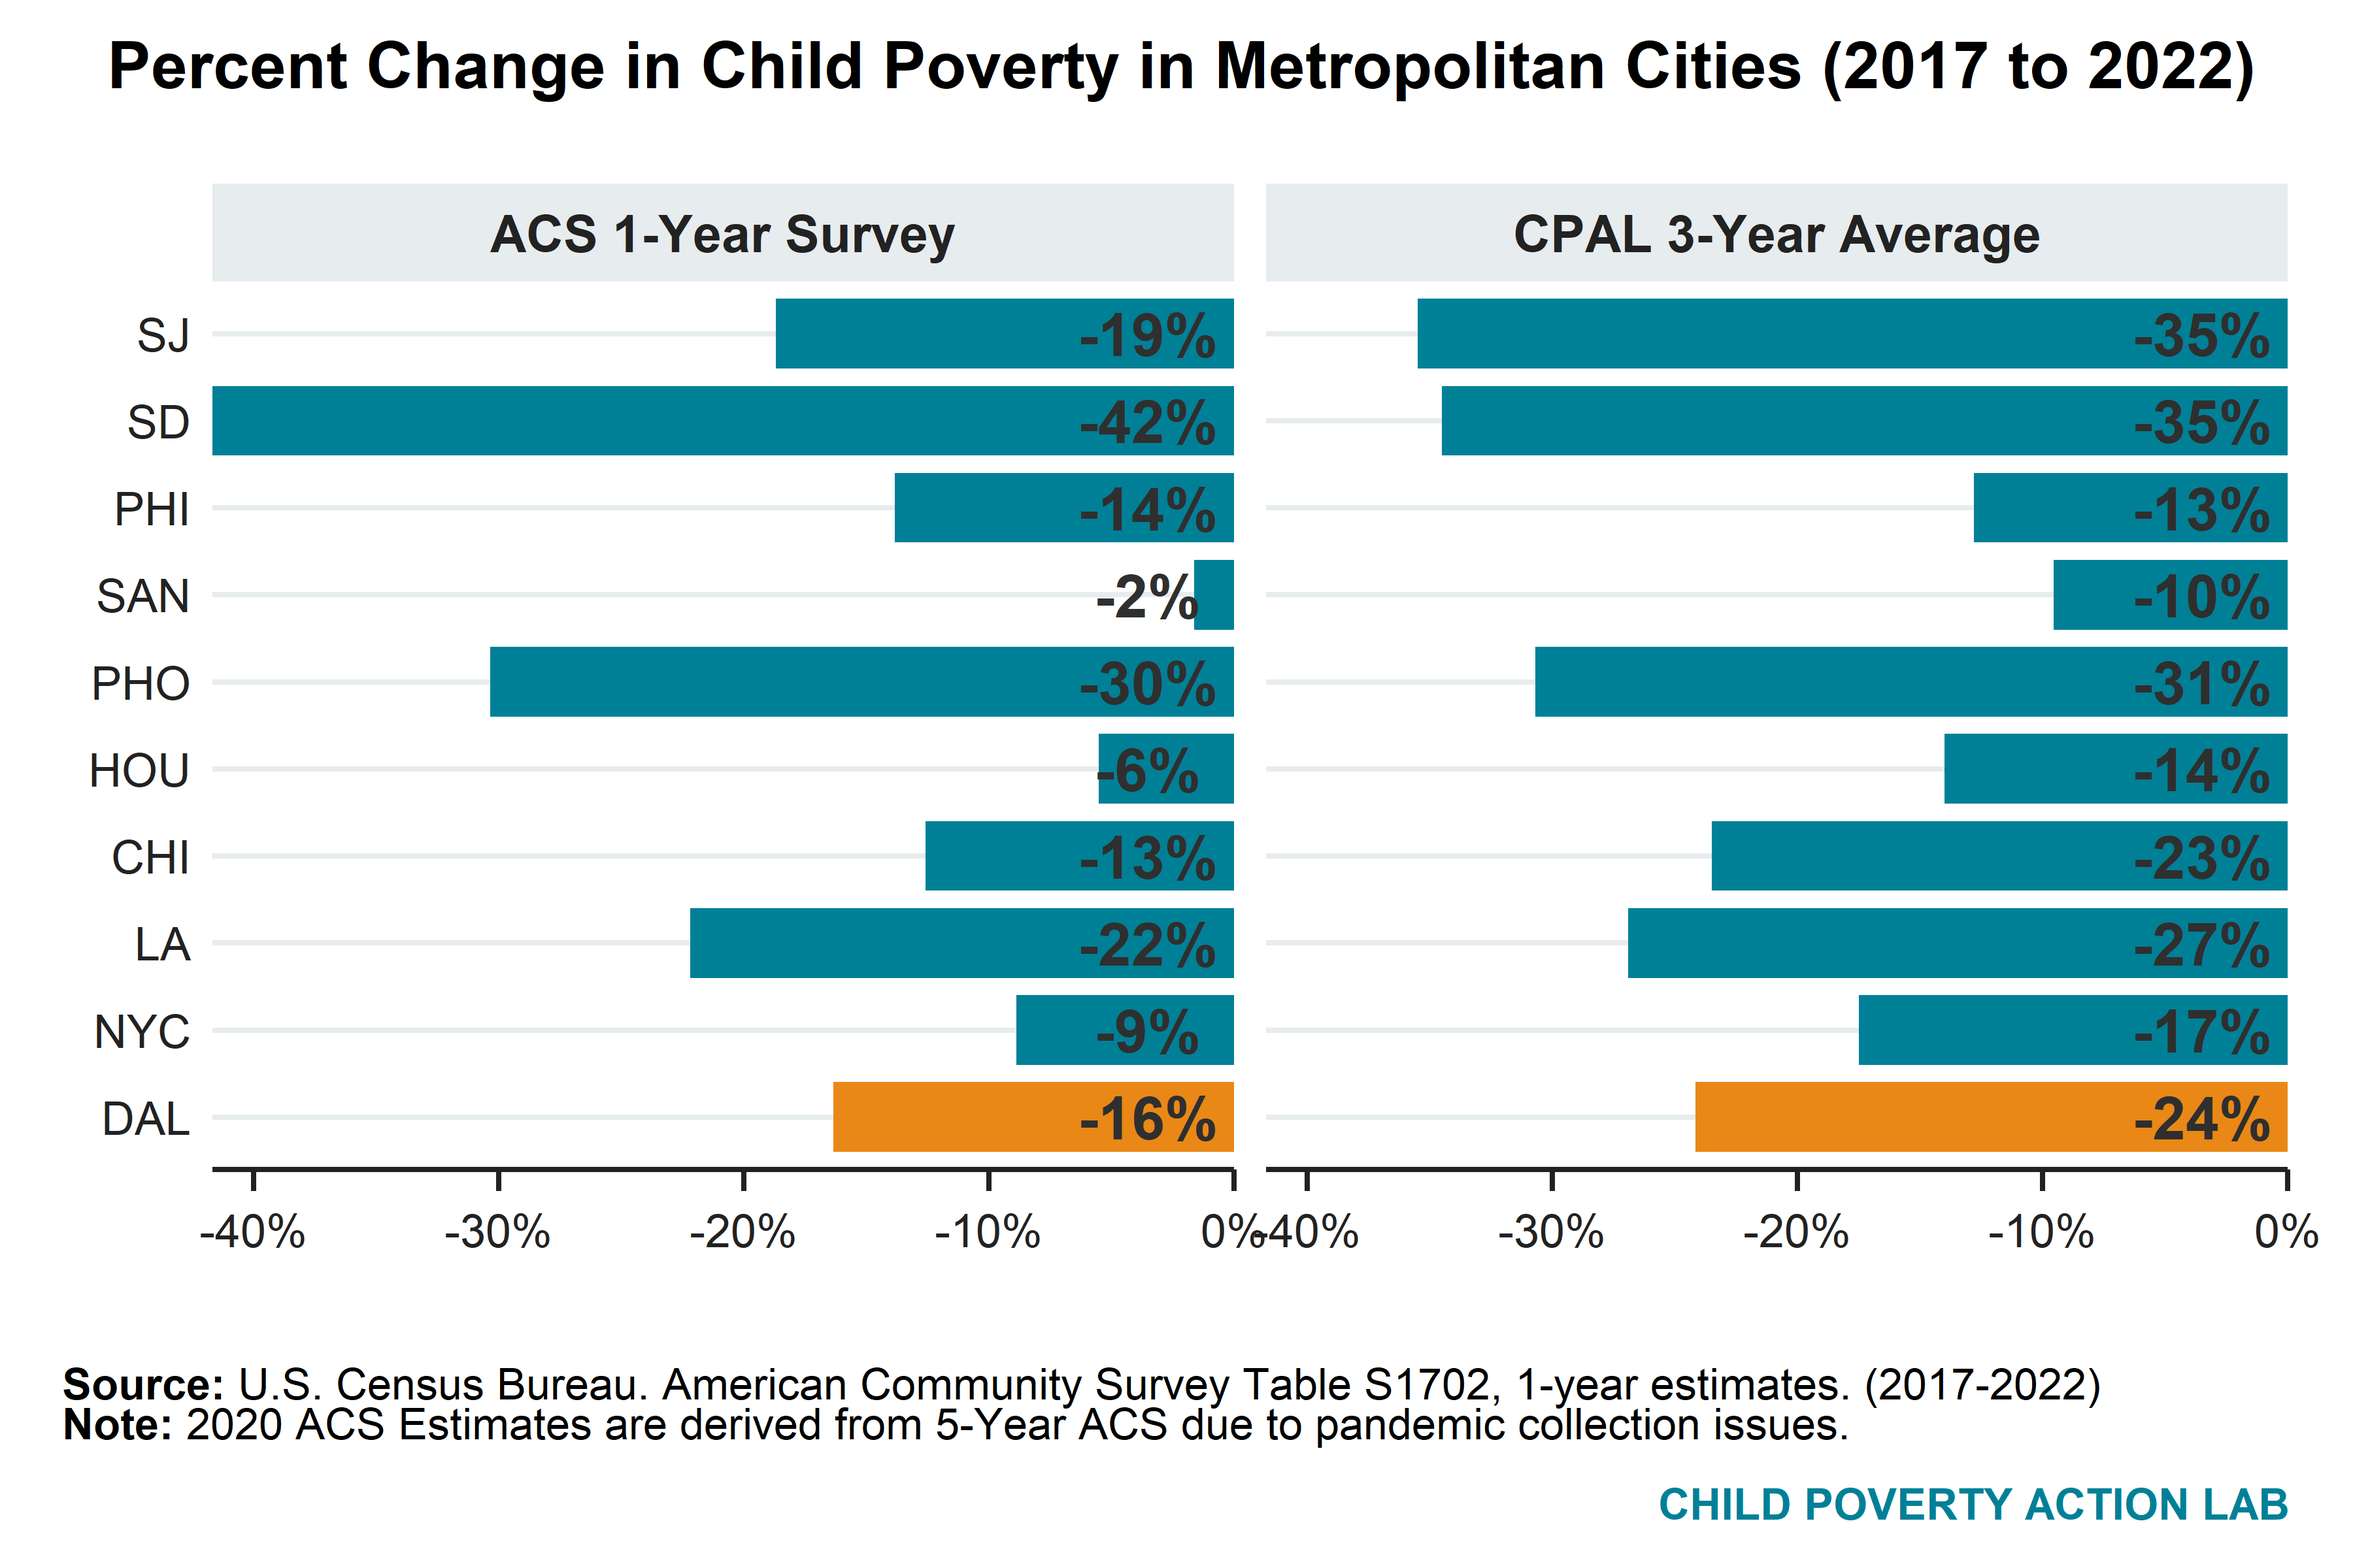
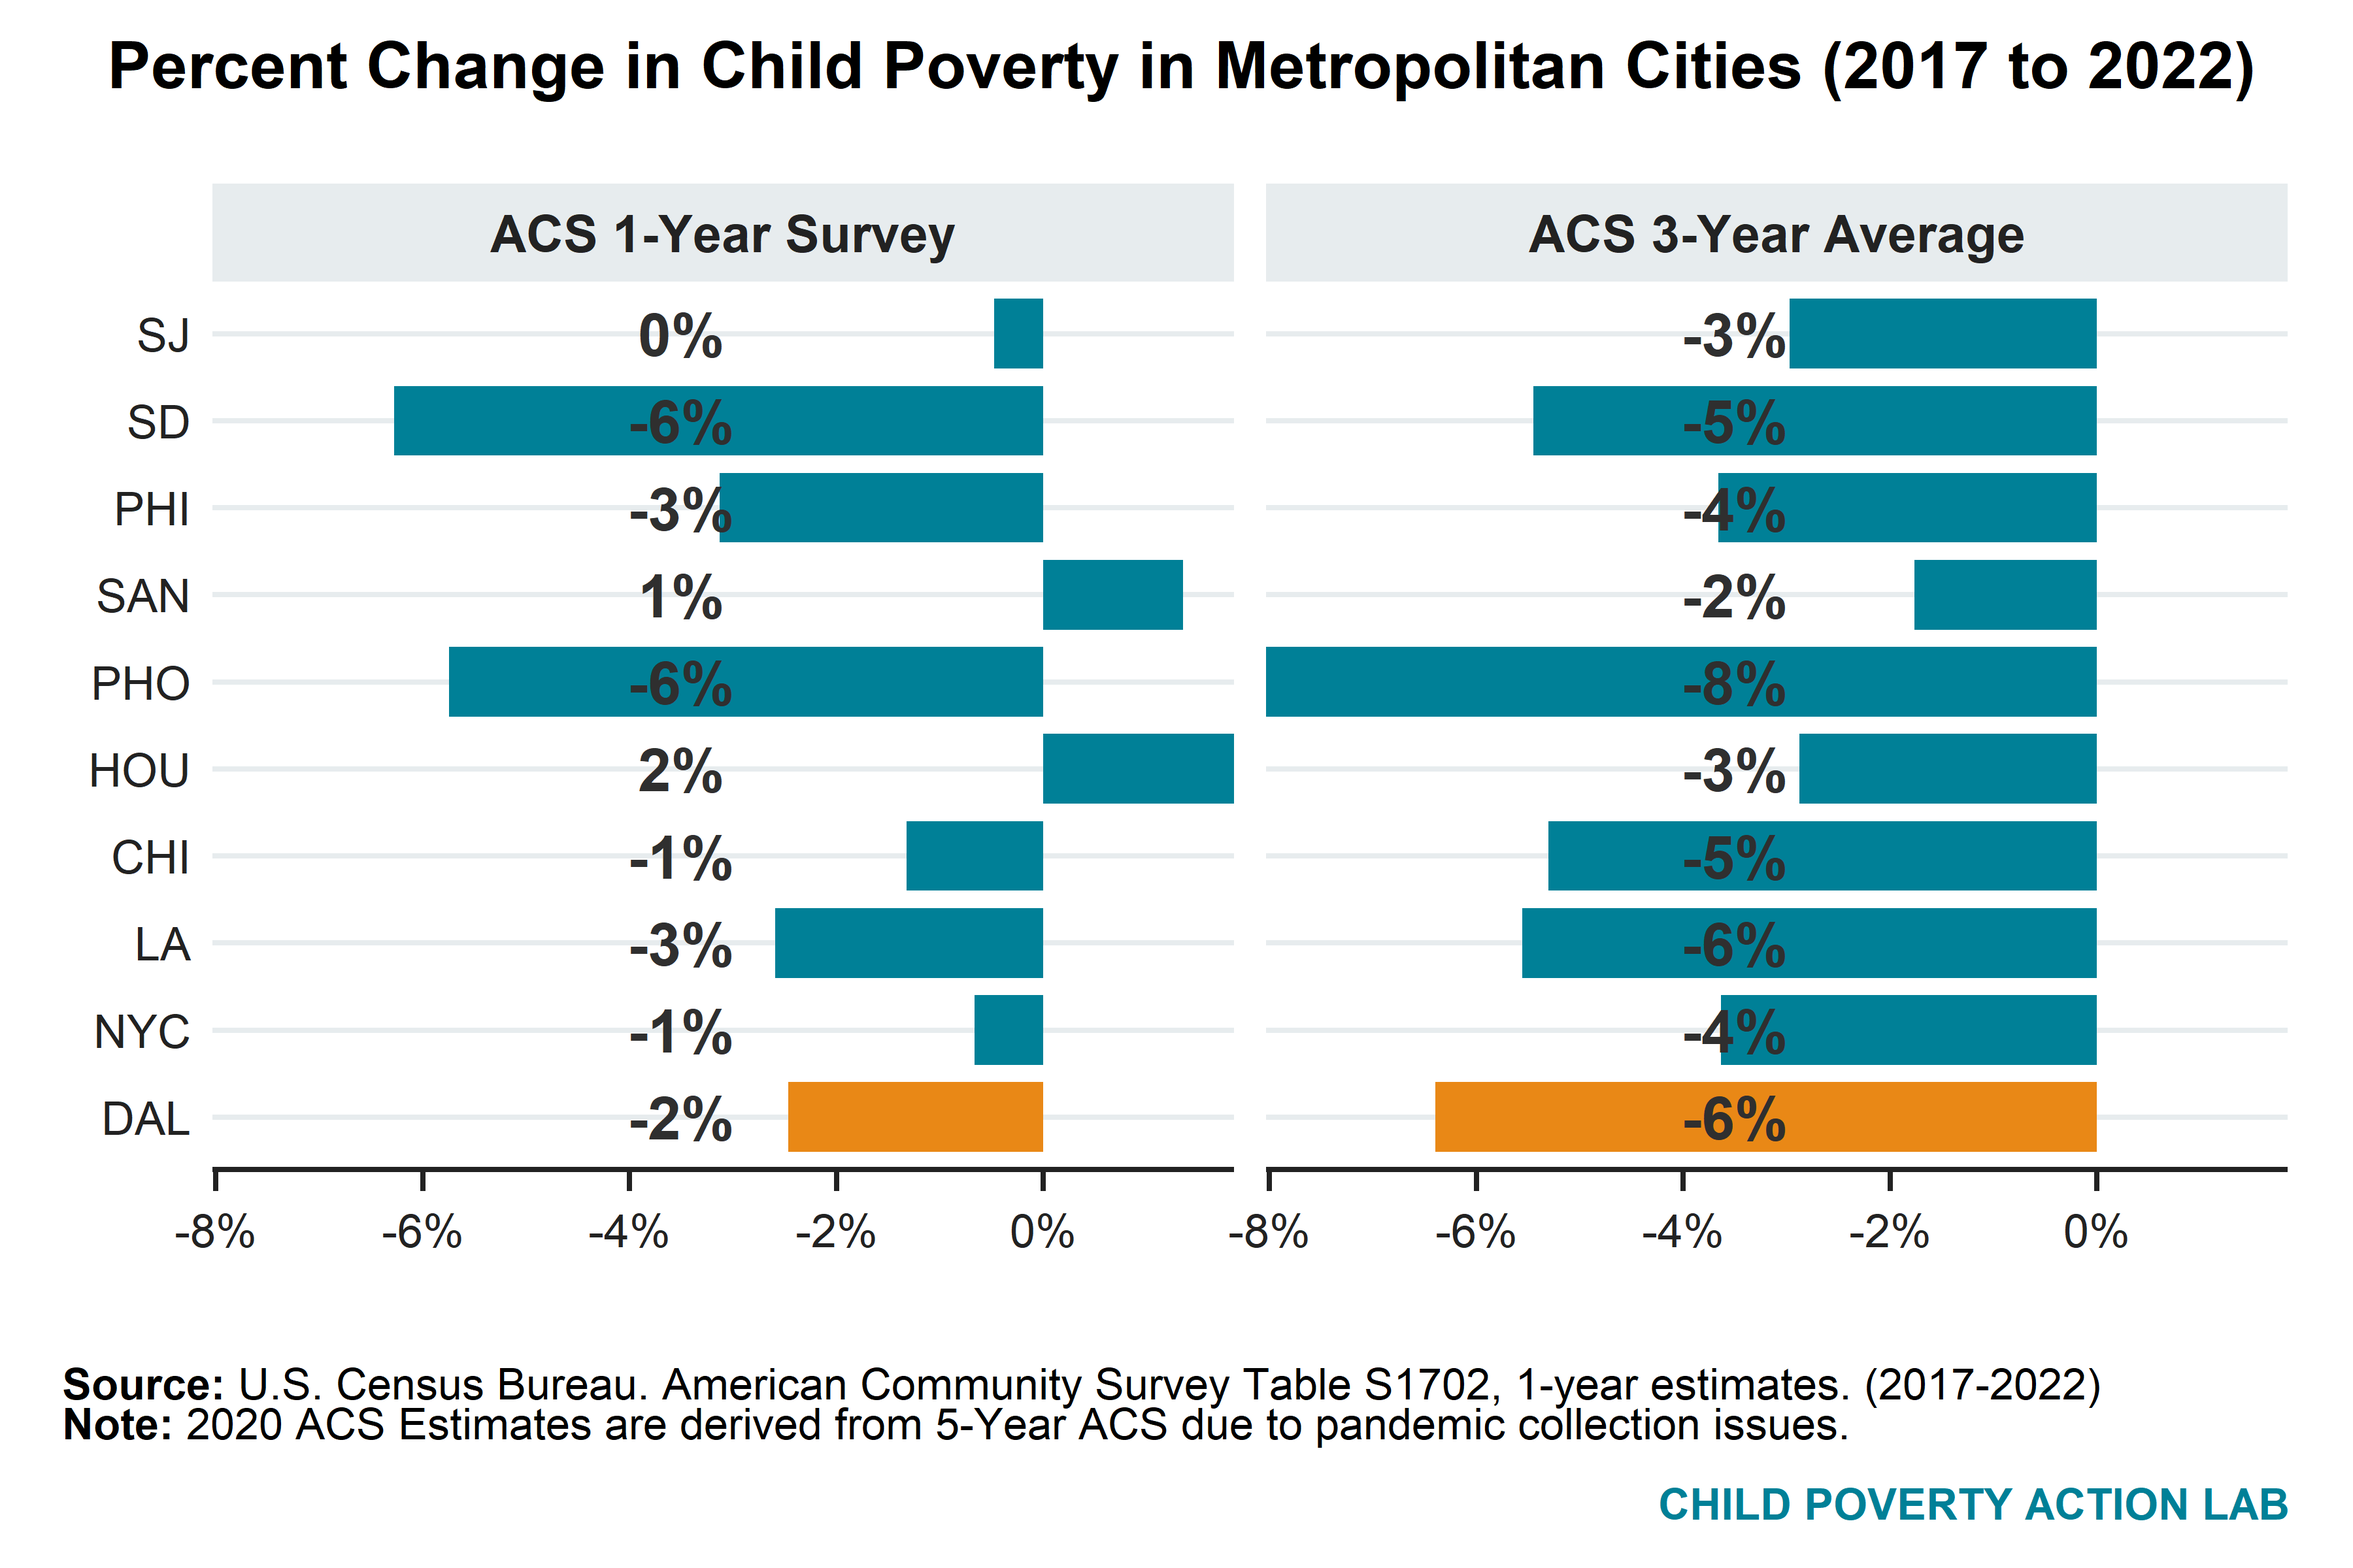
MOVING LABELS

diff --git a/docs/index.html b/docs/index.html
@@ -153,8 +153,8 @@ ul.task-list li input[type="checkbox"] {
 <div class="cell">
 <div class="cell-output-display">
 
-<div class="datatables html-widget html-fill-item-overflow-hidden html-fill-item" id="htmlwidget-b2979224485d12e572e6" style="width:100%;height:auto;"></div>
-<script type="application/json" data-for="htmlwidget-b2979224485d12e572e6">{"x":{"filter":"none","vertical":false,"data":[["CPAL 3-Year Average","ACS 1-Year Survey"],["106,663 (32.2%)","94,721 (28.3%)"],["99,402 (29.9%)","88,224 (26.7%)"],["92,881 (28.3%)","91,035 (27.8%)"],["92,311 (28.0%)","91,176 (27.8%)"],["83,938 (26.1%)","72,413 (23.8%)"],["80,895 (25.9%)","79,237 (25.9%)"]],"container":"<table class=\"display\">\n  <thead>\n    <tr>\n      <th>Data Source<\/th>\n      <th>2017<\/th>\n      <th>2018<\/th>\n      <th>2019<\/th>\n      <th>2020<\/th>\n      <th>2021<\/th>\n      <th>2022<\/th>\n    <\/tr>\n  <\/thead>\n<\/table>","options":{"paging":false,"searching":false,"info":false,"columnDefs":[],"order":[],"autoWidth":false,"orderClasses":false,"rowCallback":"function(row, data, displayNum, displayIndex, dataIndex) {\n}"}},"evals":["options.rowCallback"],"jsHooks":[]}</script>
+<div class="datatables html-widget html-fill-item-overflow-hidden html-fill-item" id="htmlwidget-6d7afe728d1c783aec9a" style="width:100%;height:auto;"></div>
+<script type="application/json" data-for="htmlwidget-6d7afe728d1c783aec9a">{"x":{"filter":"none","vertical":false,"data":[["ACS 3-Year Average","ACS 1-Year Survey"],["106,663 (32.2%)","94,721 (28.3%)"],["99,402 (29.9%)","88,224 (26.7%)"],["92,881 (28.3%)","91,035 (27.8%)"],["92,311 (28.0%)","91,176 (27.8%)"],["83,938 (26.1%)","72,413 (23.8%)"],["80,895 (25.9%)","79,237 (25.9%)"]],"container":"<table class=\"display\">\n  <thead>\n    <tr>\n      <th>Data Source<\/th>\n      <th>2017<\/th>\n      <th>2018<\/th>\n      <th>2019<\/th>\n      <th>2020<\/th>\n      <th>2021<\/th>\n      <th>2022<\/th>\n    <\/tr>\n  <\/thead>\n<\/table>","options":{"paging":false,"searching":false,"info":false,"columnDefs":[],"order":[],"autoWidth":false,"orderClasses":false,"rowCallback":"function(row, data, displayNum, displayIndex, dataIndex) {\n}"}},"evals":["options.rowCallback"],"jsHooks":[]}</script>
 </div>
 </div>
 <div class="cell">
@@ -169,7 +169,7 @@ ul.task-list li input[type="checkbox"] {
 <p>Compared to cities with a population over 1,000,000, the City Dallas has the fourth highest Child Poverty Rate in 2022</p>
 <div class="cell">
 <div class="cell-output-display">
-<p><img src="index_files/figure-html/Child Poverty Rate in Cities Over 1,000,000 Population-1.png" class="img-fluid" width="1800"></p>
+<p><img src="index_files/figure-html/Child Poverty Rate in Peer Metropolitan Cities-1.png" class="img-fluid" width="1800"></p>
 </div>
 </div>
 <p>Between 2021 and 2022 the 3-year average shows that the Child Poverty RAte in all large cities continues to decrease relative to prior years.</p>
@@ -178,24 +178,24 @@ ul.task-list li input[type="checkbox"] {
 <p><img src="index_files/figure-html/One Year Child Poverty Change in Cities Over 1,000,000 Population-1.png" class="img-fluid" width="1800"></p>
 </div>
 </div>
-<section id="child-poverty-metrics-cities-over-1000000-table" class="level3">
-<h3 data-anchor-id="child-poverty-metrics-cities-over-1000000-table">Child Poverty Metrics Cities Over 1,000,000 Table</h3>
+<section id="child-poverty-metrics-in-peer-metropolitan-cities-table" class="level3">
+<h3 data-anchor-id="child-poverty-metrics-in-peer-metropolitan-cities-table">Child Poverty Metrics in Peer Metropolitan Cities Table</h3>
 <div class="cell">
 <div class="cell-output-display">
 
-<div class="datatables html-widget html-fill-item-overflow-hidden html-fill-item" id="htmlwidget-f331720eba43ccd8a0b6" style="width:100%;height:auto;"></div>
-<script type="application/json" data-for="htmlwidget-f331720eba43ccd8a0b6">{"x":{"filter":"none","vertical":false,"data":[["CHI","DAL","HOU","LA","NYC","PHI","PHO","SAN","SD","SJ"],["129,865 (24.4%)","80,895 (25.9%)","163,680 (30.5%)","173,657 (23.3%)","395,380 (23.5%)","104,712 (31.7%)","85,645 (21.6%)","93,121 (26.1%)","32,939 (12.6%)","15,776 (7.6%)"],["133,289 (26.0%)","79,237 (25.9%)","177,119 (34.1%)","156,090 (22.1%)","403,503 (24.5%)","92,970 (28.8%)","71,304 (18.8%)","95,777 (27.7%)","29,818 (12.0%)","16,638 (8.6%)"]],"container":"<table class=\"display\">\n  <thead>\n    <tr>\n      <th>City<\/th>\n      <th>CPAL 3-Year Average<\/th>\n      <th>ACS 1-Year Survey<\/th>\n    <\/tr>\n  <\/thead>\n<\/table>","options":{"paging":false,"searching":false,"info":false,"columnDefs":[],"order":[],"autoWidth":false,"orderClasses":false,"rowCallback":"function(row, data, displayNum, displayIndex, dataIndex) {\n}"}},"evals":["options.rowCallback"],"jsHooks":[]}</script>
+<div class="datatables html-widget html-fill-item-overflow-hidden html-fill-item" id="htmlwidget-fbd11897015a1b638b3b" style="width:100%;height:auto;"></div>
+<script type="application/json" data-for="htmlwidget-fbd11897015a1b638b3b">{"x":{"filter":"none","vertical":false,"data":[["CHI","DAL","HOU","LA","NYC","PHI","PHO","SAN","SD","SJ"],["129,865 (24.4%)","80,895 (25.9%)","163,680 (30.5%)","173,657 (23.3%)","395,380 (23.5%)","104,712 (31.7%)","85,645 (21.6%)","93,121 (26.1%)","32,939 (12.6%)","15,776 (7.6%)"],["133,289 (26.0%)","79,237 (25.9%)","177,119 (34.1%)","156,090 (22.1%)","403,503 (24.5%)","92,970 (28.8%)","71,304 (18.8%)","95,777 (27.7%)","29,818 (12.0%)","16,638 (8.6%)"]],"container":"<table class=\"display\">\n  <thead>\n    <tr>\n      <th>City<\/th>\n      <th>ACS 3-Year Average<\/th>\n      <th>ACS 1-Year Survey<\/th>\n    <\/tr>\n  <\/thead>\n<\/table>","options":{"paging":false,"searching":false,"info":false,"columnDefs":[],"order":[],"autoWidth":false,"orderClasses":false,"rowCallback":"function(row, data, displayNum, displayIndex, dataIndex) {\n}"}},"evals":["options.rowCallback"],"jsHooks":[]}</script>
 </div>
 </div>
 <p>Since 2017 the City of Dallas has had the fifth largest drop in Child Poverty compared to its peer metropolitan cities in the 3-year average.</p>
 <div class="cell">
 <div class="cell-output-display">
-<p><img src="index_files/figure-html/Child Poverty Change in Cities Over 1,000,000 Population-1.png" class="img-fluid" width="1800"></p>
+<p><img src="index_files/figure-html/Child Poverty Change in Peer Metropolitan Cities-1.png" class="img-fluid" width="1800"></p>
 </div>
 </div>
 <div class="cell">
 <div class="cell-output-display">
-<p><img src="index_files/figure-html/Poverty by Race/Ethnicity in Cities Over 1,000,000 Population-1.png" class="img-fluid" width="1800"></p>
+<p><img src="index_files/figure-html/Poverty by Race/Ethnicity in Peer Metropolitan Cities-1.png" class="img-fluid" width="1800"></p>
 </div>
 </div>
 </section>
